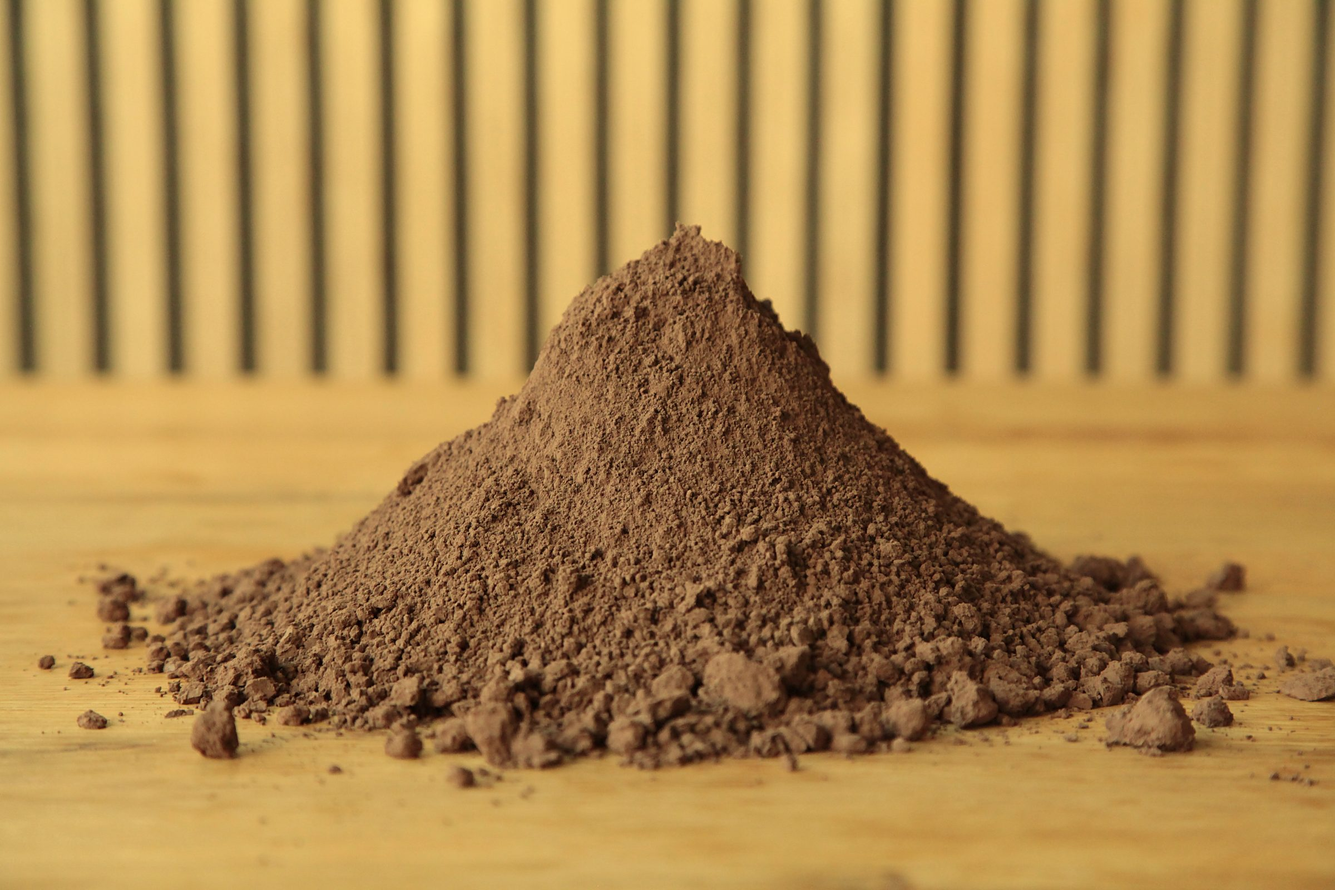
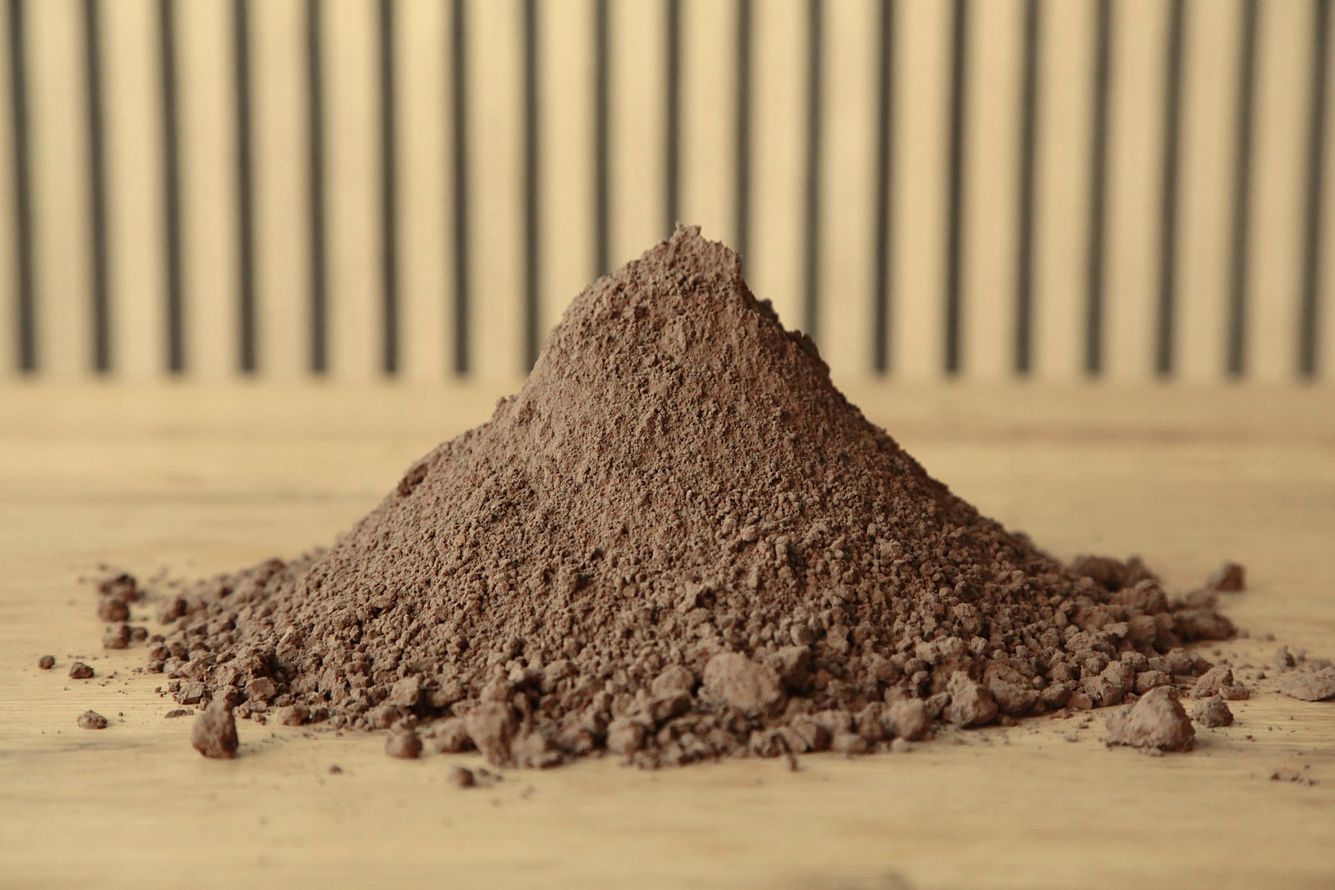
Cocoa Booster hero: less yellow background (pile color unchanged)

diff --git a/product-cocoa-booster.html b/product-cocoa-booster.html
@@ -11,7 +11,7 @@
   <link rel="icon" type="image/png" href="assets/favicon.png" />
   <link rel="preload" href="assets/fonts/rethink-sans-normal-latin.woff2" as="font" type="font/woff2" crossorigin>
   <link rel="stylesheet" href="assets/fonts.css">
-  <link rel="preload" as="image" href="assets/img/hero-booster-pile.jpg?v=2" />
+  <link rel="preload" as="image" href="assets/img/hero-booster-pile.jpg?v=3" />
   <link rel="stylesheet" href="assets/home.css?v=67" />
   <link rel="stylesheet" href="assets/subpage.css?v=27" />
   <link rel="stylesheet" href="assets/footer.css?v=4" />
@@ -73,7 +73,7 @@
     <!-- 01 · HERO — Tell me more scrolls on -->
     <section class="cb-hero cb-hero-dark" id="top">
       <figure class="cb-shot cb-shot-full" aria-hidden="true">
-        <div class="cb-shot-frame"><img src="assets/img/hero-booster-pile.jpg?v=2" alt=""></div>
+        <div class="cb-shot-frame"><img src="assets/img/hero-booster-pile.jpg?v=3" alt=""></div>
       </figure>
       <div class="cb-dark-shade" aria-hidden="true"></div>
       <div class="wrap">
